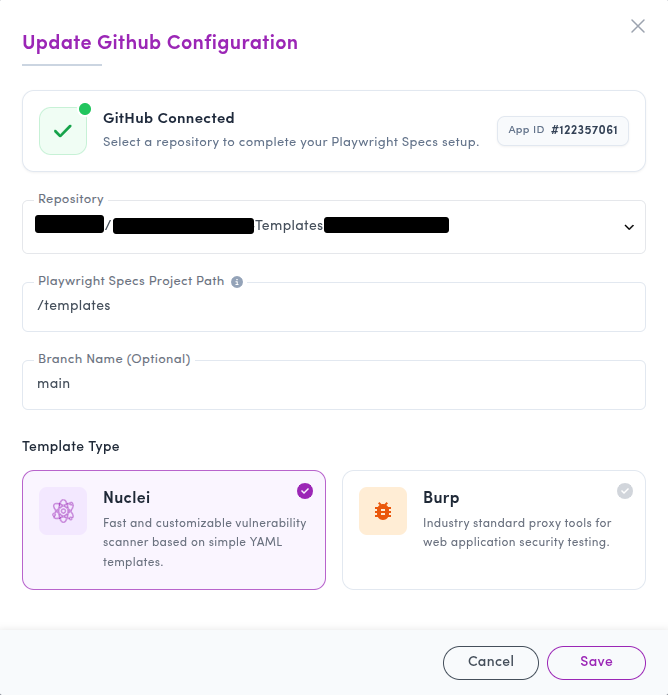
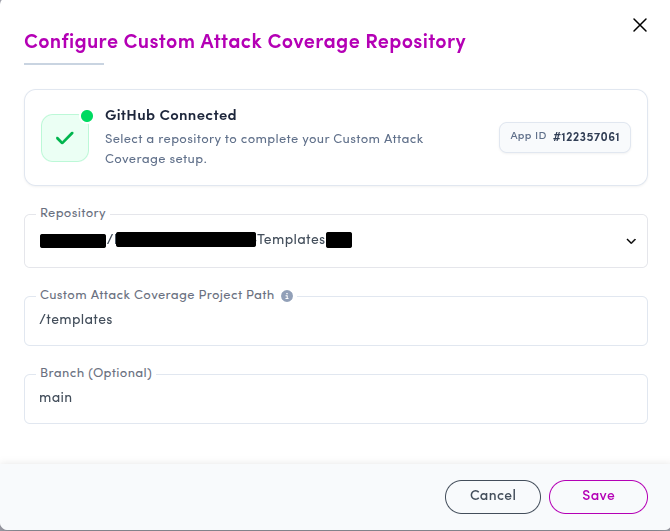
Merge pull request #262 from zerothreatai/development
feat(ui): update content for Troubleshoot, Attack Template, and ZeroT…

Pull request: feat(ui): update content for Troubleshoot, Attack Template, and ZeroT…
…hreat Plans pages

diff --git a/content/docs/1.getting-started/08.troubleshoot.md b/content/docs/1.getting-started/08.troubleshoot.md
@@ -9,6 +9,14 @@ seo.description : Get solutions for extension launch issues, token errors, brows
 
 When creating a new template in ZeroThreat, the extension automatically opens in a new tab alongside the target page. However, in some cases, this may not happen due to browser restrictions or unexpected behavior. If the extension does not launch as expected, Then we have an alternate method that you can use to manually open the extension.
 
+::hint{ style="background-color:#fff4e6; color:#f97316; border:1px solid #f6d2b0;" icon="triangle-exclamation" iconClass="text-[#f97316]"}
+###### For opening and using the chrome extension in ZeroThreat On-Prem version. Refer to [**ZeroThreat Extension**](/docs/on-prem/configuration/zerothreat-extension 'mention')
+::
+
+::hint{ style="background-color:#f7fcff; border:1px solid #07405a33; color:#1e6995;" icon="circle-info" iconClass="text-sky-600"}
+###### Before continuing, make sure the **ZeroThreat Chrome Extension** is installed and enabled in your browser.
+::
+
 ## Manually Opening the Extension
 
 If the extension does not open automatically, follow these steps to load it manually:
@@ -43,16 +51,35 @@ If the extension does not open automatically, follow these steps to load it manu
    
 <img src="/Images/image (155).png" alt="" style="display:block; margin:20px auto;">
 
-   - Click **Open Step Recorder** to complete the setup.
+
+::hint{ style="background-color:#fff4e6; color:#f97316; border:1px solid #f6d2b0;" icon="triangle-exclamation" iconClass="text-[#f97316]"}
+###### When manually opening the ZeroThreat Extension, make sure you open it from the target application tab, not on the ZeroThreat portal itself.
+###### The extension needs to attach to the target application page you want to record. Opening it from the ZeroThreat portal may prevent the recorder from loading correctly.
+::
+
+* Click **Open Step Recorder** to complete the setup. Your extension should open now and you can proceed with your recording normally.
+
+\
+Still doesn't open? Check out [**Further-fixes**](#further-fixes "mention")
+
+
+> **Do Not Enter the Target URL in On-Prem Application URL**
+>
+> Inside the ZeroThreat Extension, you may see an **On-Prem Application URL** setting.
+> Do **not** enter your target application URL in this field. The target application is the website you want to scan or record, not the ZeroThreat portal URL.
+>
+> For ZeroThreat Cloud usage, keep this field empty. Only ZeroThreat On-Prem users should configure this field with their actual On-Prem portal URL.
+>
+><img src="/Images/image (500).png" alt="" style="display:block; margin:20px 0px ; margin-bottom:15px">
 
 
 ## Further Fixes
 
 ### The Extension Still Doesn’t Open
 
-- Ensure the extension is installed and enabled in Chrome.
+- Ensure the extension is **installed and enabled** in Chrome.
 - Try restarting the browser and retrying the steps.
-- Check if any security policies or browser extensions are blocking it.
+- Check if any **security policies or browser extensions** are blocking it.
 
 #### Popup Blocked: Third-Party Cookies Are Blocked
 

diff --git a/content/docs/5.organization-settings/03.attack-templates.md b/content/docs/5.organization-settings/03.attack-templates.md
@@ -40,31 +40,31 @@ Use this method to connect your existing GitHub repository directly to ZeroThrea
 Follow these steps:
 
 1. Click the ***Configure GitHub*** card. In the popup, click ***Connect GitHub**.*
-2. Select the template type you want to import from either Nuclei or Burp Bchecks.
+<!-- 2. Select the template type you want to import from either Nuclei or Burp Bchecks. -->
 
-::fiqure-img{source="/Images/attack-template-3.png"}
+::fiqure-img{source="/Images/attack-template-12.png"}
 ::
 
 ::hint{style="background-color:#f7fcff; border:1px solid #07405a33; color:#1e6995;" icon="circle-info" iconClass="text-sky-600"}
 ###### Make sure you are logged in to GitHub in the same browser profile. If not, you can log in during the next step.
 ::
 
-3. You will be redirected to the GitHub App access page.
+2. You will be redirected to the GitHub App access page.
 
 ::fiqure-img{source="/Images/attack-template-4.png"}
 ::
 
-4. Select the repository that contains your custom templates and grant access to the ZeroThreat AI GitHub App. Click ***Save*** to complete the GitHub App authorization.
+3. Select the repository that contains your custom templates and grant access to the ZeroThreat AI GitHub App. Click ***Save*** to complete the GitHub App authorization.
 
 ::fiqure-img{source="/Images/attack-template-5.png"}
 ::
 
-5. After the connection is successful, you will see a ***GitHub App installed*** confirmation page.
+4. After the connection is successful, you will see a ***GitHub App installed*** confirmation page.
 
 ::fiqure-img{source="/Images/attack-template-6.png"}
 ::
 
-6. Back in ZeroThreat, select:
+5. Back in ZeroThreat, select:
 
 * your ***repository***
 * the ***templates path***
@@ -73,10 +73,10 @@ Follow these steps:
 ::fiqure-img{source="/Images/attack-template-7.png"}
 ::
 
-7. Click ***Save***.
+6. Click ***Save***.
 
-::fiqure-img{source="/Images/attack-template-8.png"}
-::
+ ::fiqure-img{source="/Images/attack-template-8.png"}
+ ::
 
 ZeroThreat will then fetch the templates from the selected repository. You can select which templates to use for scanning from the Scan Profile section.
 

diff --git a/content/docs/6.plans/01.zerothreat-plans.md b/content/docs/6.plans/01.zerothreat-plans.md
@@ -14,7 +14,7 @@ description: ZeroThreat offers plans for individuals, security teams, enterprise
 ## Unified Plan Comparison
 
 <div id="plan-comparison-table">
-<table><thead><tr><th width="151">Plan</th><th width="223">Pricing</th><th>Hosts</th><th>Parallel Scans</th><th>Re-Tests</th><th>CI/CD</th><th>Issue Tracking</th><th width="133.4544677734375">Notifications</th><th>Static IP</th><th>Production-Safe Testing</th><th>Agentic AI Pentesting</th><th>Complex UI Flow Automation (Playwright)</th><th>Custom Attack Templates</th><th width="140">White-Label Reports</th><th width="165.727294921875">Tech Stack Based Vulnerability (Scan Profile)</th><th width="168.9090576171875">Prebuilt Attack Templates (Scan Profile)</th><th width="146.1817626953125">Popular CVE's (Scan Profile)</th><th width="126.181884765625">Quick Test</th><th width="150">Delay Days for latest CVE's</th></tr></thead><tbody><tr><td><strong>Free Plan</strong></td><td>$0/month – 5 scans on signup with limited report view, then 1 scan/month with limited report view</td><td>Unlimited</td><td>1 per host</td><td>No</td><td>No</td><td>No</td><td>No</td><td>No</td><td>No</td><td>Yes</td><td>No</td><td>No</td><td>No</td><td>No</td><td>No</td><td>No</td><td>No</td><td>No</td></tr><tr><td><strong>Professional Cloud</strong></td><td>$100/month for the first host, $75/month for each additional host up to 10. 20% off annual upfront payment</td><td>1–10</td><td>1 per host</td><td>Unlimited</td><td>No</td><td>No</td><td>Yes</td><td>No</td><td>No</td><td>Yes</td><td>No</td><td>Yes – Nuclei + Burp</td><td>No</td><td>Yes</td><td>Yes</td><td>No</td><td>Yes</td><td>30</td></tr><tr><td><strong>Professional Pay-Per-Scan</strong></td><td>$25 per scan. Minimum purchase: $125 for 5 credits</td><td>Unlimited</td><td>Usage-based</td><td>Free 1-week re-test</td><td>No</td><td>No</td><td>No</td><td>No</td><td>No</td><td>Yes</td><td>No</td><td>No</td><td>No</td><td>No</td><td>No</td><td>Yes</td><td>No</td><td>30</td></tr><tr><td><strong>Enterprise Cloud</strong></td><td>$12,000/year with 10 hosts included, then $1,000/year per additional host</td><td>10+</td><td>3 per host</td><td>Unlimited</td><td>Yes</td><td>Yes</td><td>Yes</td><td>Yes – Extra</td><td>Yes</td><td>Yes</td><td>Yes</td><td>Yes – Nuclei + Burp + Faster Updates</td><td>Yes</td><td>Yes</td><td>Yes</td><td>No</td><td>Yes</td><td>0</td></tr><tr><td><strong>Enterprise Pay-Per-Scan</strong></td><td>$35 per scan. Minimum purchase: $7,000 for 200 credits</td><td>Unlimited</td><td>Usage-based</td><td>Free 1-week re-test</td><td>No</td><td>No</td><td>No</td><td>Yes – Extra</td><td>No</td><td>Yes</td><td>Yes</td><td>Yes – Nuclei + Burp + Faster Updates</td><td>Yes</td><td>Yes</td><td>Yes</td><td>No</td><td>No</td><td>0</td></tr><tr><td><strong>Enterprise On-Prem</strong></td><td>$20,000/year base, plus $1,500/year per extra parallel scan</td><td>Unlimited</td><td>2 per instance</td><td>Unlimited</td><td>Yes</td><td>Yes</td><td>Yes</td><td>No</td><td>Yes</td><td>Yes</td><td>Yes</td><td>Yes – Nuclei + Burp + Faster Updates</td><td>Yes</td><td>Yes</td><td>Yes</td><td>No</td><td>Yes</td><td>0</td></tr></tbody></table>
+<table><thead><tr><th width="151">Plan</th><th width="223">Pricing</th><th width="130.5">Hosts</th><th>Parallel Scans</th><th>Re-Tests</th><th>CI/CD Integration</th><th>Issue Tracking Integration</th><th width="133.[phone redacted]">Notification Integration</th><th>Static IP</th><th>Production-Safe Testing</th><th>Agentic AI Pentesting</th><th>Complex UI Flow Automation (Playwright)</th><th width="[phone redacted]">Custom Attack Templates</th><th width="140">White-Label Reports</th><th width="[phone redacted]">CVE Based Attack Coverage (Scan Profile)</th><th width="168.[phone redacted]">Open Attack Coverage (Scan Profile)</th><th width="146.[phone redacted]">Popular CVE's (Scan Profile)</th><th width="[phone redacted]">Quick Test</th><th width="150">Delay Days for latest CVE's</th></tr></thead><tbody><tr><td><strong>Free Plan</strong></td><td>$0/month – 5 scans on signup with limited report view, then 1 scan/month with limited report view</td><td>Unlimited</td><td>1 per host</td><td>No</td><td>No</td><td>No</td><td>No</td><td>No</td><td>No</td><td>Yes</td><td>No</td><td>No</td><td>No</td><td>Preview</td><td>Preview</td><td>No</td><td>No</td><td>Not Applicable</td></tr><tr><td><strong>Professional Cloud</strong></td><td>$100/month for the first host, $75/month for each additional host up to 10. 20% off annual upfront payment</td><td>1–10</td><td>1 per host</td><td>Unlimited</td><td>No</td><td>No</td><td>Yes</td><td>No</td><td>No</td><td>Yes</td><td>No</td><td>No</td><td>No</td><td>Yes</td><td>Preview</td><td>No</td><td>Yes</td><td>30</td></tr><tr><td><strong>Professional Pay-Per-Scan</strong></td><td>$25 per scan. Minimum purchase: $125 for 5 credits</td><td>Unlimited</td><td>Usage-based</td><td>Free 1-week Re-Rest</td><td>No</td><td>No</td><td>No</td><td>No</td><td>No</td><td>Yes</td><td>No</td><td>No</td><td>No</td><td>Preview</td><td>Preview</td><td>Yes</td><td>No</td><td>30</td></tr><tr><td><strong>Enterprise Cloud</strong></td><td>Contact Sales</td><td>10+</td><td>3 per host</td><td>Unlimited</td><td>Yes</td><td>Yes</td><td>Yes</td><td>Yes – Extra</td><td>Yes</td><td>Yes</td><td>Yes</td><td>Yes – Nuclei + Burp + Faster Updates</td><td>Yes</td><td>Yes</td><td>Yes</td><td>No</td><td>Yes</td><td>0</td></tr><tr><td><strong>Enterprise Pay-Per-Scan</strong></td><td>Contact Sales</td><td>Unlimited</td><td>Usage-based</td><td>Free 1-week Re-Test</td><td>No</td><td>No</td><td>Yes</td><td>Yes – Extra</td><td>No</td><td>Yes</td><td>No</td><td>Yes – Nuclei + Burp + Faster Updates</td><td>Yes</td><td>Yes</td><td>Yes</td><td>No</td><td>No</td><td>0</td></tr><tr><td><strong>Enterprise On-Prem</strong></td><td>Contact Sales</td><td>Unlimited</td><td>2 per instance</td><td>Unlimited</td><td>Yes</td><td>Yes</td><td>Yes</td><td>Not Applicable</td><td>Yes</td><td>Yes</td><td>Yes</td><td>Yes – Nuclei + Burp + Faster Updates</td><td>Yes</td><td>Yes</td><td>Yes</td><td>No</td><td>Yes</td><td>0</td></tr></tbody></table>
 </div>
 
 For simplicity in the comparison table:
@@ -74,13 +74,13 @@ Small to mid-sized security teams running recurring scans with predictable prici
 * Unlimited re-tests
 * Notification integrations
 * Agentic AI Pentesting
-* Custom attack templates using Nuclei and Burp
 * Access to scan profile based advanced coverage options
 
 **Not Included**
 
 * CI/CD integrations
 * Issue tracking integrations
+* Custom attack templates using Nuclei and Burp
 * Static IP
 * Production-safe testing
 * Complex UI flow automation